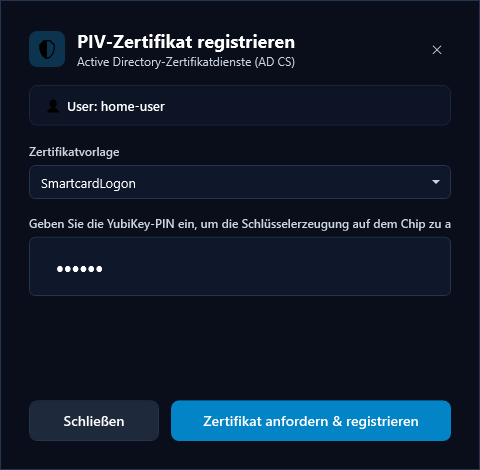
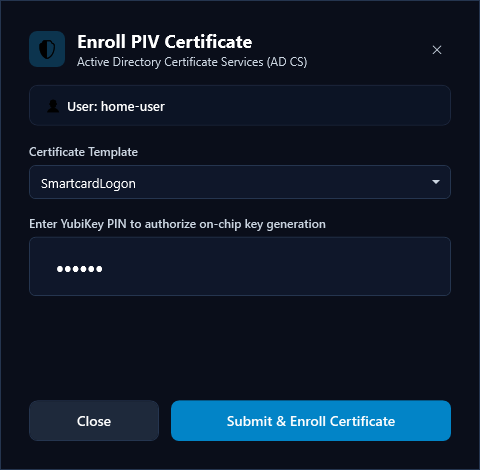
docs: regenerate all screenshots in English and update DI interface

diff --git a/tests/YubiEnroller.Tests/UiCaptureTests.cs b/tests/YubiEnroller.Tests/UiCaptureTests.cs
@@ -32,15 +32,19 @@ public class UiCaptureTests
                     app.InitializeComponent();
                 }
 
-                var settings = new AppSettings { SimulatorMode = true };
+                LocalizationService.Instance.SetLanguage("en");
+
+                var settings = new AppSettings { SimulatorMode = true, Language = "en" };
                 var simService = new YubiKeySimulatorService();
                 var caService = new WindowsCaEnrollmentService();
                 var hwService = new YubiKeyHardwareService();
+                string docsDir = @"c:\apps\yubi-enroller\docs\screenshots";
+                Directory.CreateDirectory(docsDir);
 
                 // 1. Capture Empty State (No Certificate, Device Connected)
                 {
                     var vm = new MainViewModel(hwService, simService, caService, settings);
-                    var win = new MainWindow
+                    var win = new MainWindow(settings)
                     {
                         DataContext = vm,
                         Width = 820,
@@ -50,7 +54,7 @@ public class UiCaptureTests
                         Top = -2000
                     };
                     win.Show();
-                    RenderWindowToPng(win, Path.Combine(ArtifactDir, "screenshot_empty_state.png"));
+                    SaveWindowToPng(win, "screenshot_empty_state.png", docsDir);
                     win.Close();
                 }
 
@@ -58,7 +62,7 @@ public class UiCaptureTests
                 {
                     simService.SeedSampleCertificate();
                     var vm = new MainViewModel(hwService, simService, caService, settings);
-                    var win = new MainWindow
+                    var win = new MainWindow(settings)
                     {
                         DataContext = vm,
                         Width = 820,
@@ -68,7 +72,7 @@ public class UiCaptureTests
                         Top = -2000
                     };
                     win.Show();
-                    RenderWindowToPng(win, Path.Combine(ArtifactDir, "screenshot_enrolled_state.png"));
+                    SaveWindowToPng(win, "screenshot_enrolled_state.png", docsDir);
                     win.Close();
                 }
 
@@ -84,7 +88,7 @@ public class UiCaptureTests
                         Top = -2000
                     };
                     dialog.Show();
-                    RenderWindowToPng(dialog, Path.Combine(ArtifactDir, "screenshot_change_pin.png"));
+                    SaveWindowToPng(dialog, "screenshot_change_pin.png", docsDir);
                     dialog.Close();
                 }
 
@@ -100,7 +104,7 @@ public class UiCaptureTests
                         Top = -2000
                     };
                     dialog.Show();
-                    RenderWindowToPng(dialog, Path.Combine(ArtifactDir, "screenshot_enroll_dialog.png"));
+                    SaveWindowToPng(dialog, "screenshot_enroll_dialog.png", docsDir);
                     dialog.Close();
                 }
 
@@ -115,15 +119,16 @@ public class UiCaptureTests
                         Top = -2000
                     };
                     settingsDialog.Show();
-                    RenderWindowToPng(settingsDialog, Path.Combine(ArtifactDir, "screenshot_settings_dialog.png"));
+                    SaveWindowToPng(settingsDialog, "screenshot_settings_dialog.png", docsDir);
                     settingsDialog.Close();
                 }
 
                 // 6. Capture Pure Physical Mode (No Device Attached)
                 {
-                    var prodSettings = new AppSettings { SimulatorMode = false };
-                    var vm = new MainViewModel(hwService, simService, caService, prodSettings);
-                    var win = new MainWindow
+                    var prodSettings = new AppSettings { SimulatorMode = false, Language = "en" };
+                    var disconnectedHw = new DisconnectedService();
+                    var vm = new MainViewModel(disconnectedHw, simService, caService, prodSettings);
+                    var win = new MainWindow(prodSettings)
                     {
                         DataContext = vm,
                         Width = 820,
@@ -133,7 +138,7 @@ public class UiCaptureTests
                         Top = -2000
                     };
                     win.Show();
-                    RenderWindowToPng(win, Path.Combine(ArtifactDir, "screenshot_no_device.png"));
+                    SaveWindowToPng(win, "screenshot_no_device.png", docsDir);
                     win.Close();
                 }
             }
@@ -146,6 +151,18 @@ public class UiCaptureTests
         thread.SetApartmentState(ApartmentState.STA);
         thread.Start();
         thread.Join(15000);
+    }
+
+    private static void SaveWindowToPng(Window window, string filename, string docsDir)
+    {
+        string p1 = Path.Combine(ArtifactDir, filename);
+        RenderWindowToPng(window, p1);
+        try
+        {
+            string p2 = Path.Combine(docsDir, filename);
+            File.Copy(p1, p2, true);
+        }
+        catch { }
     }
 
     private static void RenderWindowToPng(Window window, string outputPath)
@@ -169,3 +186,33 @@ public class UiCaptureTests
         encoder.Save(fs);
     }
 }
+
+class DisconnectedService : IYubiKeyService
+{
+    public event EventHandler<DeviceTelemetry?>? DeviceStateChanged { add { } remove { } }
+    public event EventHandler? CertificateChanged { add { } remove { } }
+
+    public DeviceTelemetry? CurrentDevice => null;
+    public bool IsConnected => false;
+    public bool IsSimulator => false;
+
+    public CertificateModel? GetEnrolledCertificate(byte slot = 0x9A) => null;
+
+    public Task<string> GenerateCsrAsync(byte slot, string subjectDn, string? upn, string keyType, string pin) =>
+        throw new NotImplementedException();
+
+    public Task<bool> InstallCertificateAsync(byte slot, byte[] certRawData, string pin) =>
+        Task.FromResult(false);
+
+    public Task<(bool Success, int? RetriesRemaining, string? ErrorMessage)> ChangePinAsync(string currentPin, string newPin) =>
+        Task.FromResult<(bool, int?, string?)>((false, 0, "No device connected"));
+
+    public Task<bool> DeleteCertificateAsync(byte slot, string pin) =>
+        Task.FromResult(false);
+
+    public int GetPinRetries() => 0;
+
+    public void Refresh() { }
+    public void Dispose() { }
+}
+

diff --git a/src/YubiEnroller/ViewModels/MainViewModel.cs b/src/YubiEnroller/ViewModels/MainViewModel.cs
@@ -10,7 +10,7 @@ namespace YubiEnroller.ViewModels;
 public class MainViewModel : ViewModelBase
 {
     private IYubiKeyService _activeService;
-    private readonly YubiKeyHardwareService _hardwareService;
+    private readonly IYubiKeyService _hardwareService;
     private readonly YubiKeySimulatorService _simulatorService;
     private readonly WindowsCaEnrollmentService _caService;
     private readonly AppSettings _settings;
@@ -126,7 +126,7 @@ public class MainViewModel : ViewModelBase
     public event Func<string, string?>? RequestSaveFilePath;
 
     public MainViewModel(
-        YubiKeyHardwareService hardwareService,
+        IYubiKeyService hardwareService,
         YubiKeySimulatorService simulatorService,
         WindowsCaEnrollmentService caService,
         AppSettings settings)

diff --git a/src/YubiEnroller/MainWindow.xaml.cs b/src/YubiEnroller/MainWindow.xaml.cs
@@ -12,11 +12,15 @@ public partial class MainWindow : Window
 {
     private readonly MainViewModel _viewModel;
 
-    public MainWindow()
+    public MainWindow() : this(null)
+    {
+    }
+
+    public MainWindow(AppSettings? initialSettings)
     {
         InitializeComponent();
 
-        var settings = AppSettings.Load();
+        var settings = initialSettings ?? AppSettings.Load();
         LocalizationService.Instance.SetLanguage(settings.Language);
 
         var hardwareService = new YubiKeyHardwareService();

diff --git a/tests/YubiEnroller.Tests/SimulatorAndEnrollmentTests.cs b/tests/YubiEnroller.Tests/SimulatorAndEnrollmentTests.cs
@@ -235,6 +235,10 @@ public class SimulatorAndEnrollmentTests
         Assert.Equal("de", loaded.Language);
         Assert.Equal("corp-ca.domain.local\\Issuing-CA", loaded.CaConfigString);
         Assert.Equal("CustomSmartcard", loaded.CertificateTemplate);
+
+        // Reset to default English
+        new AppSettings { Language = "en" }.Save();
+        LocalizationService.Instance.SetLanguage("en");
     }
 
     [Fact]
